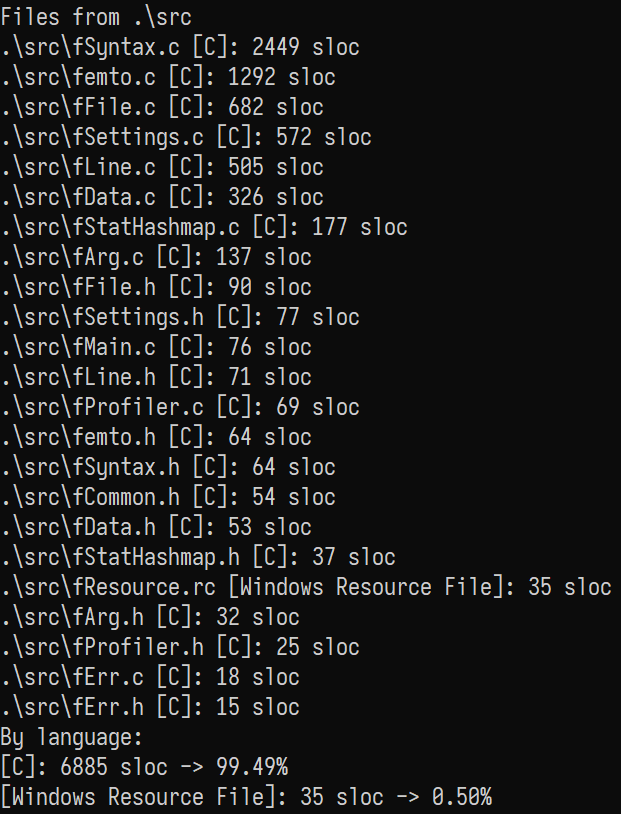
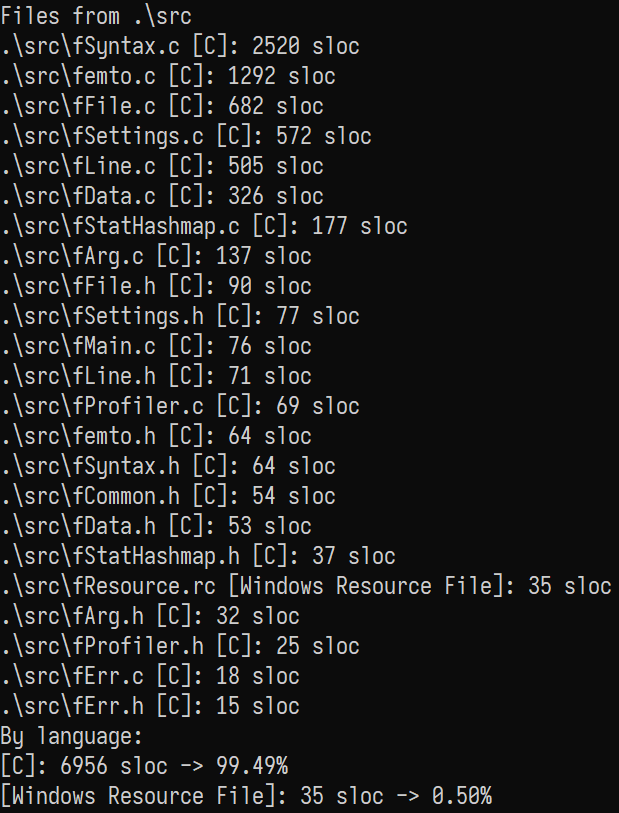
More C++ keywords

diff --git a/src/fSyntax.c b/src/fSyntax.c
@@ -5,9 +5,9 @@
 #include "fStatHashmap.h"
 
 
-enum fSyntax fStx_detect(const wchar_t * restrict fileName)
+fStx_e fStx_detect(const wchar_t * restrict fileName)
 {
-	enum fSyntax syntax = fstxNONE;
+	fStx_e syntax = fstxNONE;
 	
 	const wchar_t * end = fileName + wcslen(fileName);
 	if (fileName != end)
@@ -89,7 +89,7 @@ enum fSyntax fStx_detect(const wchar_t * restrict fileName)
 	return syntax;
 }
 
-const char * fStx_name(enum fSyntax fs)
+const char * fStx_name(fStx_e fs)
 {
 	static const char * syntaxes[fstxSIZE] = {
 		[fstxNONE] = "None",
@@ -638,7 +638,7 @@ void fStx_checkCPPToken(fLine_t * restrict node, u32 start, u32 lasti, WORD kwCo
 		L"vector",
 		L"cout",
 		L"cin",
-		L"iostream",
+		L"basic_iostream",
 		L"istream",
 		L"ostream",
 		L"stringstream",
@@ -646,6 +646,13 @@ void fStx_checkCPPToken(fLine_t * restrict node, u32 start, u32 lasti, WORD kwCo
 		L"ostringstream",
 		L"wstring",
 		L"basic_string",
+		L"basic_string_view",
+		L"string_view",
+		L"wstring_view",
+		L"map",
+		L"unordered_map",
+		L"set",
+		L"unordered_set",
 
 		L"atol",
 		L"atoll",
@@ -694,7 +701,72 @@ void fStx_checkCPPToken(fLine_t * restrict node, u32 start, u32 lasti, WORD kwCo
 
 		L"atan2f",
 		L"atan2",
-		L"atan2l"
+		L"atan2l",
+
+		L"endl",
+		L"flush",
+		L"push_back",
+		L"emplace_back",
+		L"at",
+		L"substr",
+		L"front",
+		L"back",
+		L"begin",
+		L"end",
+		L"rbegin",
+		L"rend",
+		L"size",
+		L"empty",
+		L"max_size",
+		L"reserve",
+		L"capacity",
+		L"shrink_to_fit",
+		L"clear",
+		L"insert",
+		L"erase",
+		L"pop_back",
+		L"append",
+		L"compare",
+		L"replace",
+		L"find",
+		L"rfind",
+		L"swap",
+		L"resize",
+		L"stoi",
+		L"stol",
+		L"stoll",
+		L"stoul",
+		L"stoull",
+		L"stof",
+		L"stod",
+		L"stold",
+		L"to_string",
+		L"to_wstring",
+		L"hash",
+		L"data",
+		L"c_str",
+		L"get_allocator",
+		L"starts_with",
+		L"ends_with",
+		L"copy",
+		L"emplace_hint",
+		L"emplace",
+		L"insert_or_assign",
+		L"try_emplace",
+		L"extract",
+		L"merge",
+		L"contains",
+		L"equal_range",
+		L"lower_bound",
+		L"upper_bound",
+		L"erase_if",
+		L"count",
+		L"bucket_count",
+		L"max_bucket_count",
+		L"load_factor",
+		L"max_load_factor",
+		L"rehash",
+		L"bucket"
 	};
 	static fStatHash_t map = { 0 };
 
@@ -1430,7 +1502,7 @@ bool fStx_parseCLike(
 	fLine_t * restrict node,
 	const WORD * restrict colors,
 	fStx_tokeniserFunc_t func,
-	enum fSyntax lang
+	fStx_e lang
 )
 {
 	if (!fStx_autoAlloc(node))

diff --git a/src/fSyntax.h b/src/fSyntax.h
@@ -8,8 +8,8 @@
 #define MAX_C_TOKEN_MEM  600
 #define MAX_C_TOKEN_WORD  14
 
-#define MAX_CPP_TOKEN_MEM  810
-#define MAX_CPP_TOKEN_WORD  16
+#define MAX_CPP_TOKEN_MEM  1020
+#define MAX_CPP_TOKEN_WORD  17
 
 #define MAX_PY_TOKEN_MEM  393
 #define MAX_PY_TOKEN_WORD  21

diff --git a/README.md b/README.md
@@ -13,7 +13,7 @@ It is also written in vanilla C & Win32 Console API - it's designed to be used s
 It has been compiled with MinGW GCC.
 
 Currently, my other tool [slocWin32](https://github.com/makuke1234/slocWin32)
-reports ~6900 source code lines (excluding whitespace, comments & [jsonlite2](https://github.com/makuke1234/jsonlite2) library):
+reports ~7000 source code lines (excluding whitespace, comments & [jsonlite2](https://github.com/makuke1234/jsonlite2) library):
 
 ![SLOC](./images/sloc.png)
 
@@ -192,6 +192,7 @@ Have a look at the provided [settings file](./settings.json) to get a better und
 # Changelog
 
 * 1.10 (planned)
+	* [x] More common C++ keywords
 	* [ ] Support for raw editing/saving later to a file
 	* [ ] Search support, also search result highlighting
 	* [ ] Proper text copying/pasting support
